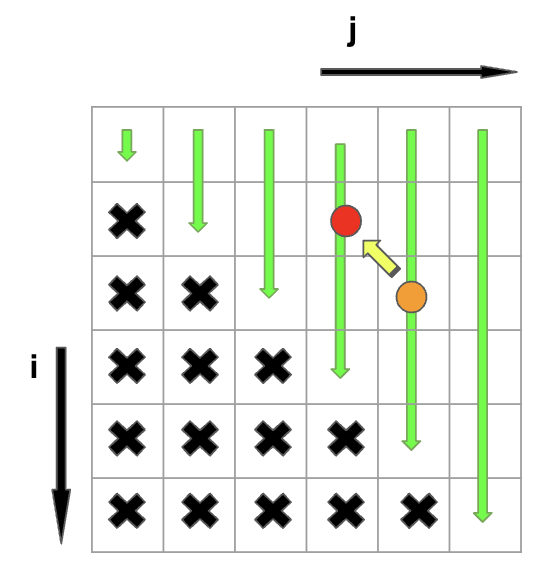
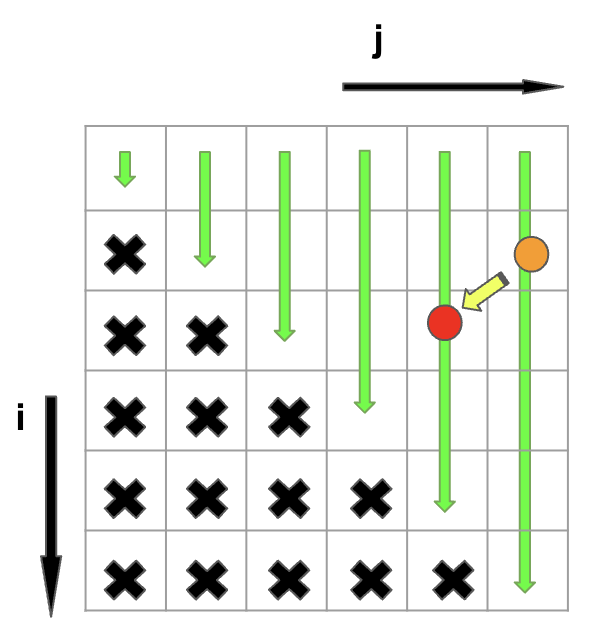
refill Explanation of longest palindromic substring, the original one disappear with no reason

Changed region(s): [[0.0309, 0.0312, 0.9582, 1.0]]

diff --git a/src/Longest_Palindromic_Substring/Explanation.md b/src/Longest_Palindromic_Substring/Explanation.md
@@ -1,0 +1,25 @@
+This problem involves dynamic programming applied to substring manipulation. As with similar problems, we can use a matrix 
+to assist us in finding the optimal solution.:
+
+To construct this matrix, we must consider three key questions:
+
+1. How should we initialize the matrix? Do we need to add padding to the input string to simplify the problem?
+2. What is the transition equation that allows us to update the current grid based on the previous ones?
+3. In what order should we fill in the cells of the matrix to ensure that we have all the necessary information for the 
+final solution?"
+
+The matrix is here: ![matrix.png](matrix.png)
+The matrix `dp[i][j]` represents whether the substring `s.substring(i, j + 1)` is a palindrome or not. Since `i` should 
+always be less than or equal to `j`, we do not need to fill in the lower half of the matrix.
+
+To determine the values of the matrix, we can follow these guidelines:
+
+![transition equation](transition_equation.png)
+
+1. We do not need to add padding, and `dp[0][0]` should always be true.
+2. For each `dp[i][j]` entry, we can typically compute its value based on `dp[i+1][j-1]`. In the image, to calculate the value 
+of the orange cell, we first need to know the value of the red cell. However, there are two special cases:
+   1. When `i` equals `j`, the substring is a palindrome, so `dp[i][j]` should be set to true. 
+   2. When `j - i = 1`, we need to check whether `s[i]` and `s[j]` are equal to determine if the substring is a palindrome.
+3. We should fill in the cells of the matrix in the order indicated by the green arrows.
+
